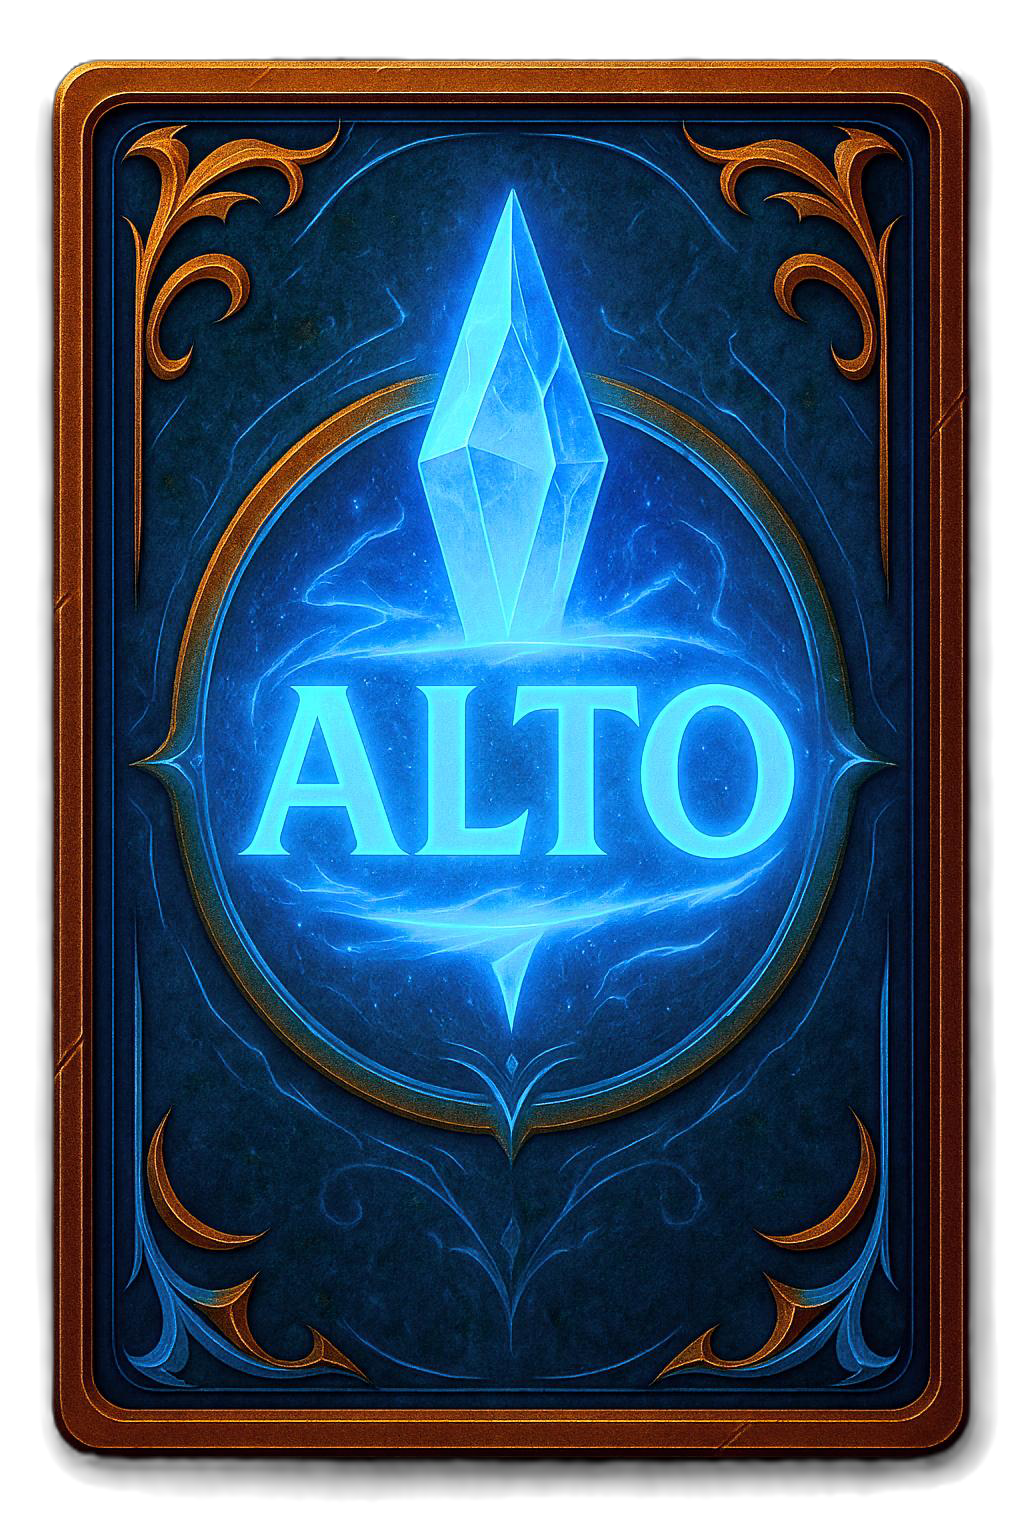
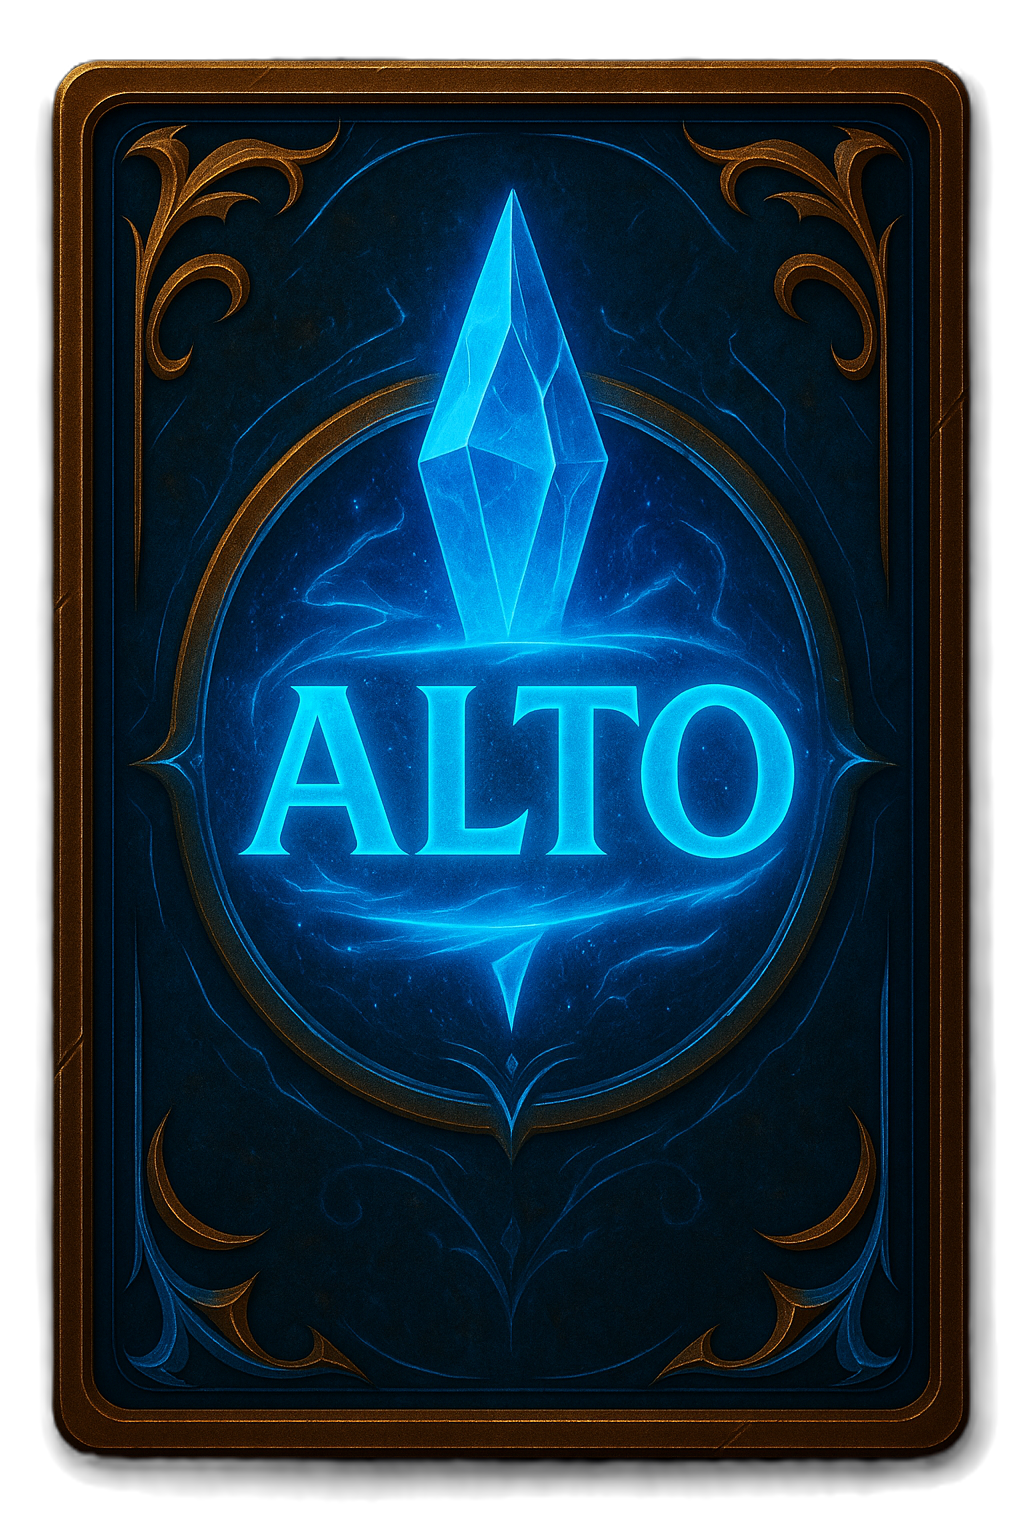
More UI fixes and spell card face added

diff --git a/src/index.css b/src/index.css
@@ -204,6 +204,7 @@ body {
   padding: 0;
   background: none;
   cursor: none;
+  transition: filter 160ms ease, opacity 160ms ease, transform 120ms ease;
 }
 
 .ability-frame__icon {
@@ -225,11 +226,20 @@ body {
   pointer-events: none;
 }
 
-.ability-frame:hover {
+.ability-frame.is-active {
+  filter: drop-shadow(0 0 8px rgba(80, 140, 255, 0.75))
+    drop-shadow(0 0 16px rgba(50, 110, 220, 0.6));
+}
+
+.ability-frame.is-disabled {
+  filter: grayscale(0.6) brightness(0.85) saturate(0.4);
+}
+
+.ability-frame.is-active:hover {
   filter: brightness(1.08);
 }
 
-.ability-frame:active {
+.ability-frame.is-active:active {
   transform: scale(0.98);
 }
 
@@ -612,6 +622,7 @@ body {
   touch-action: none;
   transition: transform 0.18s ease;
   transform: rotate(var(--card-rot, 0deg));
+  z-index: 5;
 }
 
 .hand-card:hover {

diff --git a/src/ui/HandCard.tsx b/src/ui/HandCard.tsx
@@ -73,7 +73,16 @@ const HandCard = ({
     >
       <span className="hand-card__glow" aria-hidden="true" />
       <img className="hand-card__art" src={artSrc} alt={alt} draggable={false} />
-      <img className="hand-card__frame" src="/assets/cards/frames/card-front.PNG" alt="" draggable={false} />
+      <img
+        className="hand-card__frame"
+        src={
+          type === "SPELL"
+            ? "/assets/cards/frames/card-front-spell.PNG"
+            : "/assets/cards/frames/card-front.PNG"
+        }
+        alt=""
+        draggable={false}
+      />
       <span className="hand-card__cost">{cost}</span>
       <span className="hand-card__name" style={{ fontSize: `${nameSize}px` }}>
         {name}

diff --git a/src/ui/AbilityFrame.tsx b/src/ui/AbilityFrame.tsx
@@ -12,7 +12,7 @@ type AbilityFrameProps = {
 const AbilityFrame = ({ slot, iconSrc, iconAlt, onActivate, isDisabled = false, cost }: AbilityFrameProps) => {
   return (
     <button
-      className={`ability-frame${isDisabled ? " is-disabled" : ""}`}
+      className={`ability-frame${isDisabled ? " is-disabled" : " is-active"}`}
       type="button"
       style={{ left: slot.x, top: slot.y }}
       onClick={onActivate}
